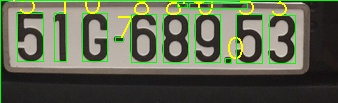
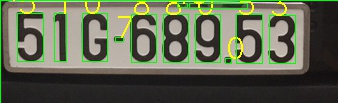
Split number + character

diff --git a/Bsx.py b/Bsx.py
@@ -2,16 +2,9 @@ import os
 import numpy as np
 import cv2
 import matplotlib.pyplot as plt
+import Util
 
-np.set_printoptions(threshold=np.nan)
-
-def sub_plot(characters,row,column):
-    plt.subplots(figsize=(10,10))
-    for i,character in enumerate(characters):
-        plt.subplot(row,column,i+1)
-        plt.imshow(character)
-    plt.show()
-
+#np.set_printoptions(threshold=np.nan)
 
 #Load image và convert sang image gray
 im = cv2.imread("bxx5.jpg")
@@ -125,11 +118,21 @@ print(cont[0])
 
 areas_ind = {}
 areas = []
+boundingRect = []
+
 for ind,cnt in enumerate(cont):
     area = cv2.contourArea(cnt)
+    # x= cv2.boundingRect(cnt)
+    # #print_info(x,'true')
+    # boundingRect.append(x)
     areas_ind[ind] = area
     areas.append(area)
-#print(cont)
+# boundingRect=np.asarray(boundingRect)
+# Util.print_info(boundingRect,'true')
+# #print("Bdr: ", boundingRect)
+# print(boundingRect[0])
+# print(boundingRect[0][1])
+
 print(len(areas_ind))
 print("areas_ind: ", areas_ind)
 areas = sorted(areas,reverse=True)
@@ -146,18 +149,33 @@ for i,area in enumerate(areas):
     #print(list(areas_ind.keys())[list(areas_ind.values()).index(area)],"index: ", i , "area: ", area)  
     new_cont.append(cont[list(areas_ind.keys())[list(areas_ind.values()).index(area)]])
     (x,y,w,h) = cv2.boundingRect(cont[list(areas_ind.keys())[list(areas_ind.values()).index(area)]])
-    cv2.rectangle(roi,(x,y),(x+w,y+h),(0,255,0),1)
-cv2.imshow("ewqr",roi)
-cv2.waitKey()
+    #cv2.rectangle(roi,(x,y),(x+w,y+h),(0,255,0),1)
+#cv2.imshow("ewqr",roi)
+#cv2.waitKey()
 
+Util.print_info(new_cont)
+(conts, boundingBox)=Util.sort_contours(new_cont)
+Util.print_info(boundingBox,'true')
+# for (i,c) in enumerate(conts):
+#     Util.draw_contour(roi,c,i)
 character = []
-for area in areas:
-    (x,y,w,h) = cv2.boundingRect(cont[list(areas_ind.keys())[list(areas_ind.values()).index(area)]])
+for box in boundingBox:
+    (x,y,w,h) = box
     image = roi[y:y+h,x:x+w]
     character.append(cv2.cvtColor(image,cv2.COLOR_BGR2RGB))
-print(np.shape(roi))
-print(len(roi))
-print(type(roi))
+#Util.sub_plot(character,1,10)
+Util.print_info(character[2],'true')
+# Util.draw_contour(roi,conts[1],0)
+# (x,y,w,h) = boundingBox[1]
+# cv2.rectangle(roi,(x,y),(x+w,y+h),(0,255,0),1)
+#cv2.imshow("Sorted", roi)
+#cv2.waitKey(0)
+# character = []
+# for area in areas:
+#     (x,y,w,h) = cv2.boundingRect(cont[list(areas_ind.keys())[list(areas_ind.values()).index(area)]])
+#     image = roi[y:y+h,x:x+w]
+#     character.append(cv2.cvtColor(image,cv2.COLOR_BGR2RGB))
+
 #print(cont[list(areas_ind.keys())[list(areas_ind.values()).index(2)]])
 #cv2.drawContours(roi,cont[list(areas_ind.keys())[list(areas_ind.values()).index(2)]],-1,(0,255,0),1)
 #print(new_cont)
@@ -172,5 +190,4 @@ print(type(roi))
 #dr = cv2.drawContours(roi,new_cont,-1,(0,255,0))
 # cv2.imshow("image1111",roi)
 # cv2.waitKey()
-
-sub_plot(character,1,10)
+# sub_plot(character,1,10)

diff --git a/Util.py b/Util.py
@@ -1,0 +1,56 @@
+import os
+import numpy as np
+import cv2
+import matplotlib.pyplot as plt
+
+def sub_plot(characters,row,column):
+    plt.subplots(figsize=(10,10))
+    for i,character in enumerate(characters):
+        plt.subplot(row,column,i+1)
+        plt.imshow(character)
+    plt.show()
+    
+def print_info(x,print_full='false'):
+    print("np.shape(x): ",np.shape(x))
+    print("type(x): ", type(x))
+    print("len(x): ", len(x))
+    if print_full =='true':
+        print(x)
+        return True
+    else: 
+        return False
+def sort_contours(cnts, method="left-to-right"):
+	# initialize the reverse flag and sort index
+	reverse = False
+	i = 0
+ 
+	# handle if we need to sort in reverse
+	if method == "right-to-left" or method == "bottom-to-top":
+		reverse = True
+ 
+	# handle if we are sorting against the y-coordinate rather than
+	# the x-coordinate of the bounding box
+	if method == "top-to-bottom" or method == "bottom-to-top":
+		i = 1
+ 
+	# construct the list of bounding boxes and sort them from top to
+	# bottom
+	boundingBoxes = [cv2.boundingRect(c) for c in cnts]
+	(cnts, boundingBoxes) = zip(*sorted(zip(cnts, boundingBoxes),
+		key=lambda b:b[1][i], reverse=reverse))
+ 
+	# return the list of sorted contours and bounding boxes
+	return (cnts, boundingBoxes)
+def draw_contour(image, c, i):
+	# compute the center of the contour area and draw a circle
+	# representing the center
+	M = cv2.moments(c)
+	cX = int(M["m10"] / M["m00"])
+	cY = int(M["m01"] / M["m00"])
+ 
+	# draw the countour number on the image
+	cv2.putText(image, "#{}".format(i + 1), (cX - 20, cY), cv2.FONT_HERSHEY_SIMPLEX,
+		1.0, (255, 255, 255), 2)
+ 
+	# return the image with the contour number drawn on it
+	return image
